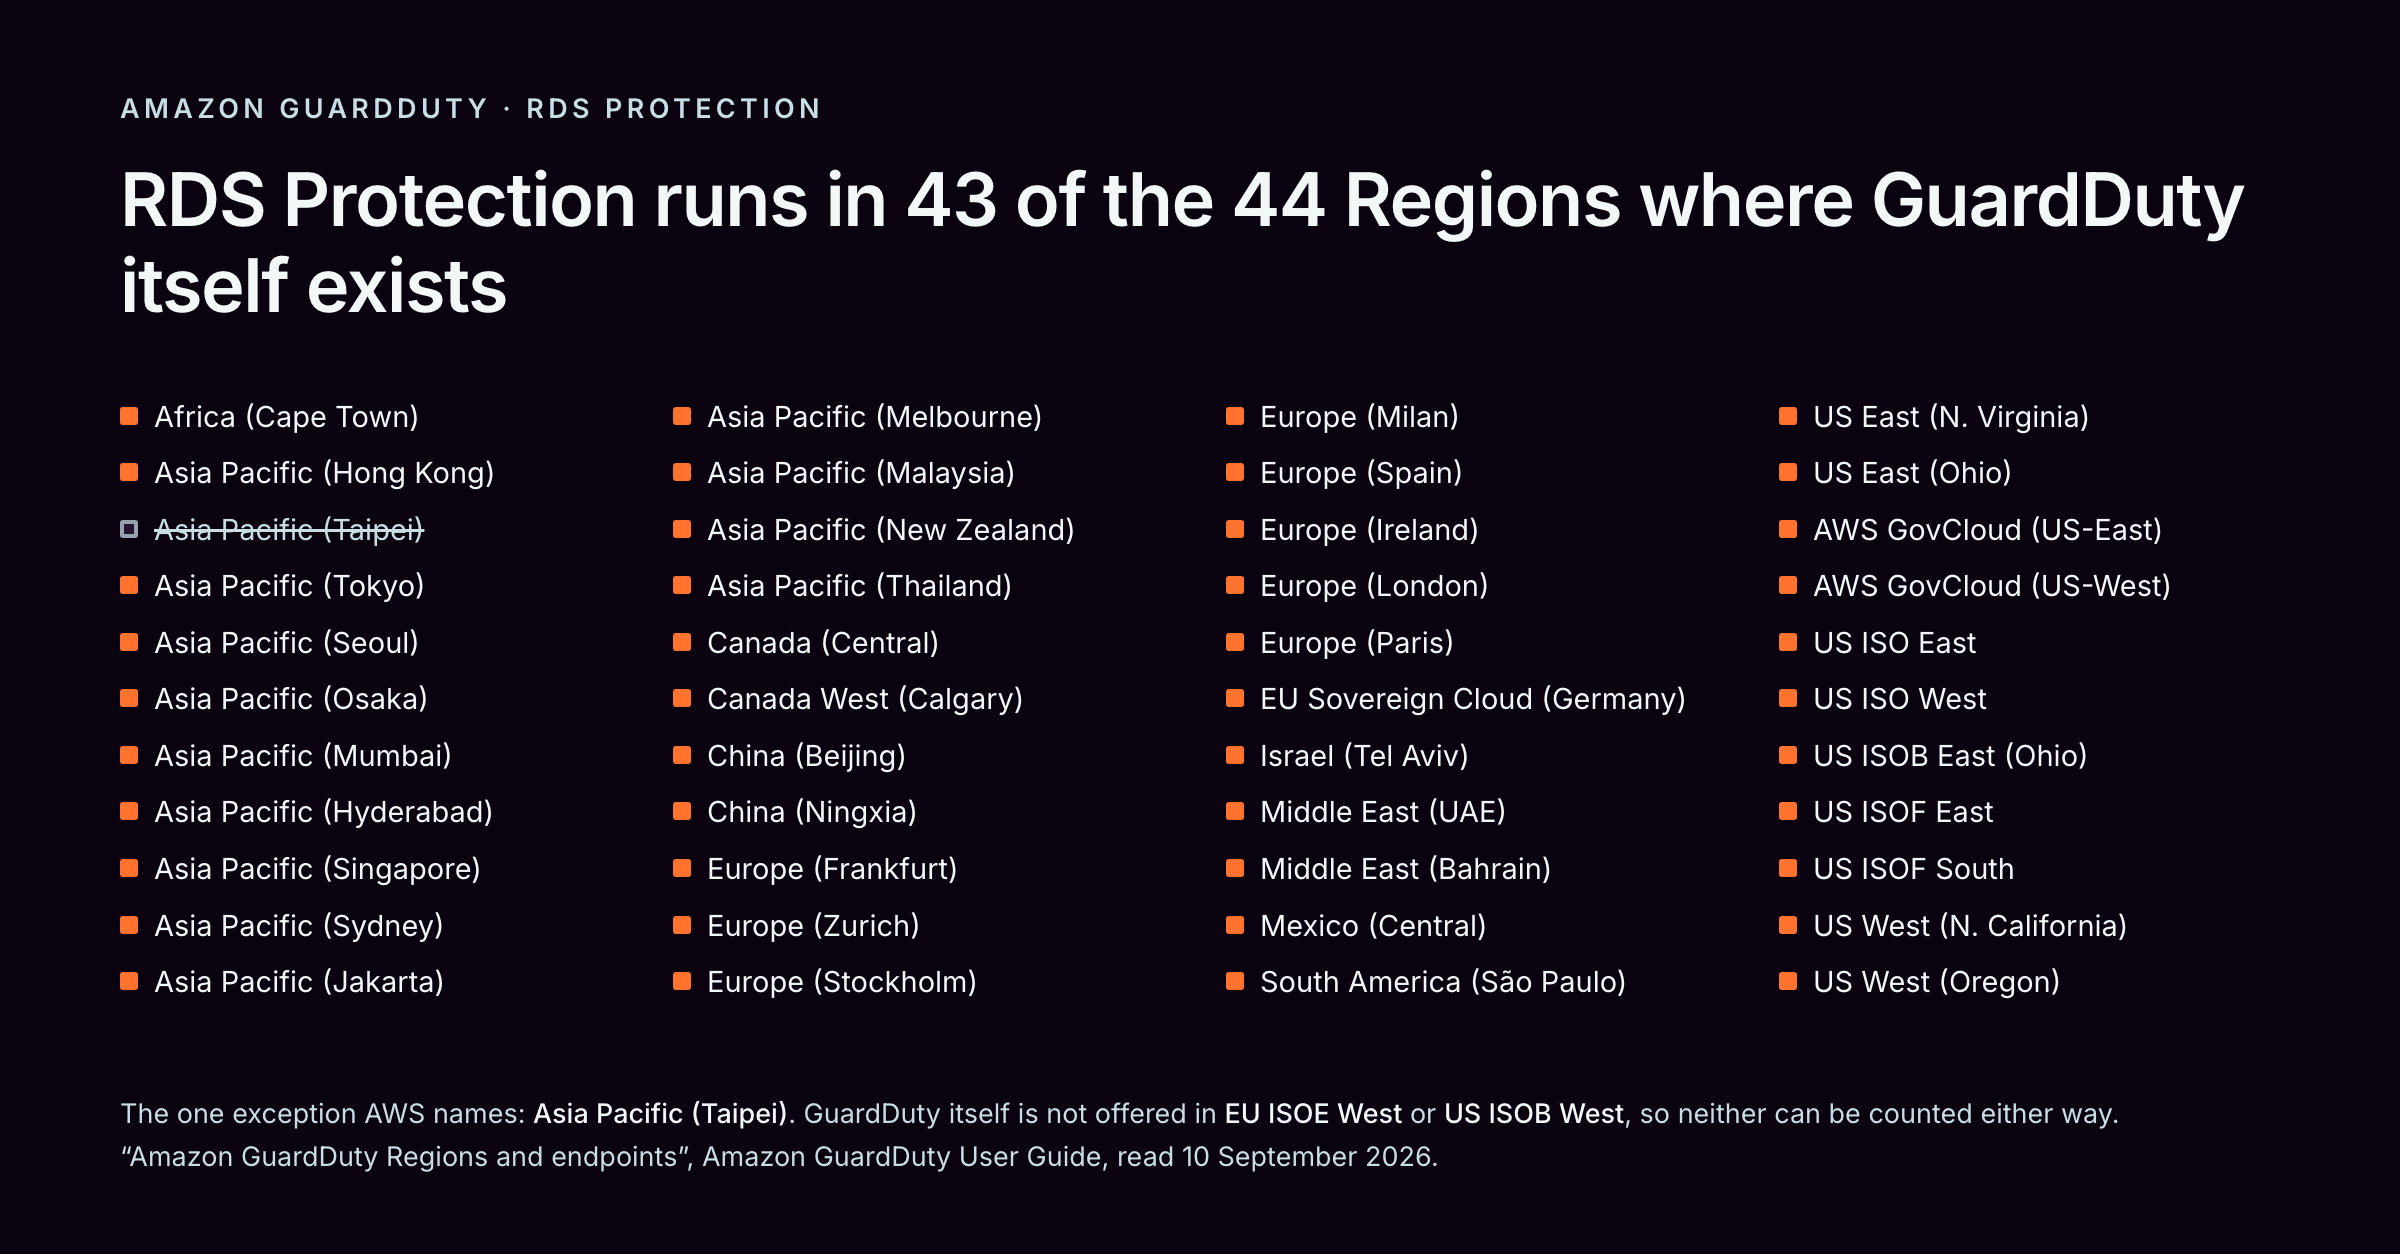
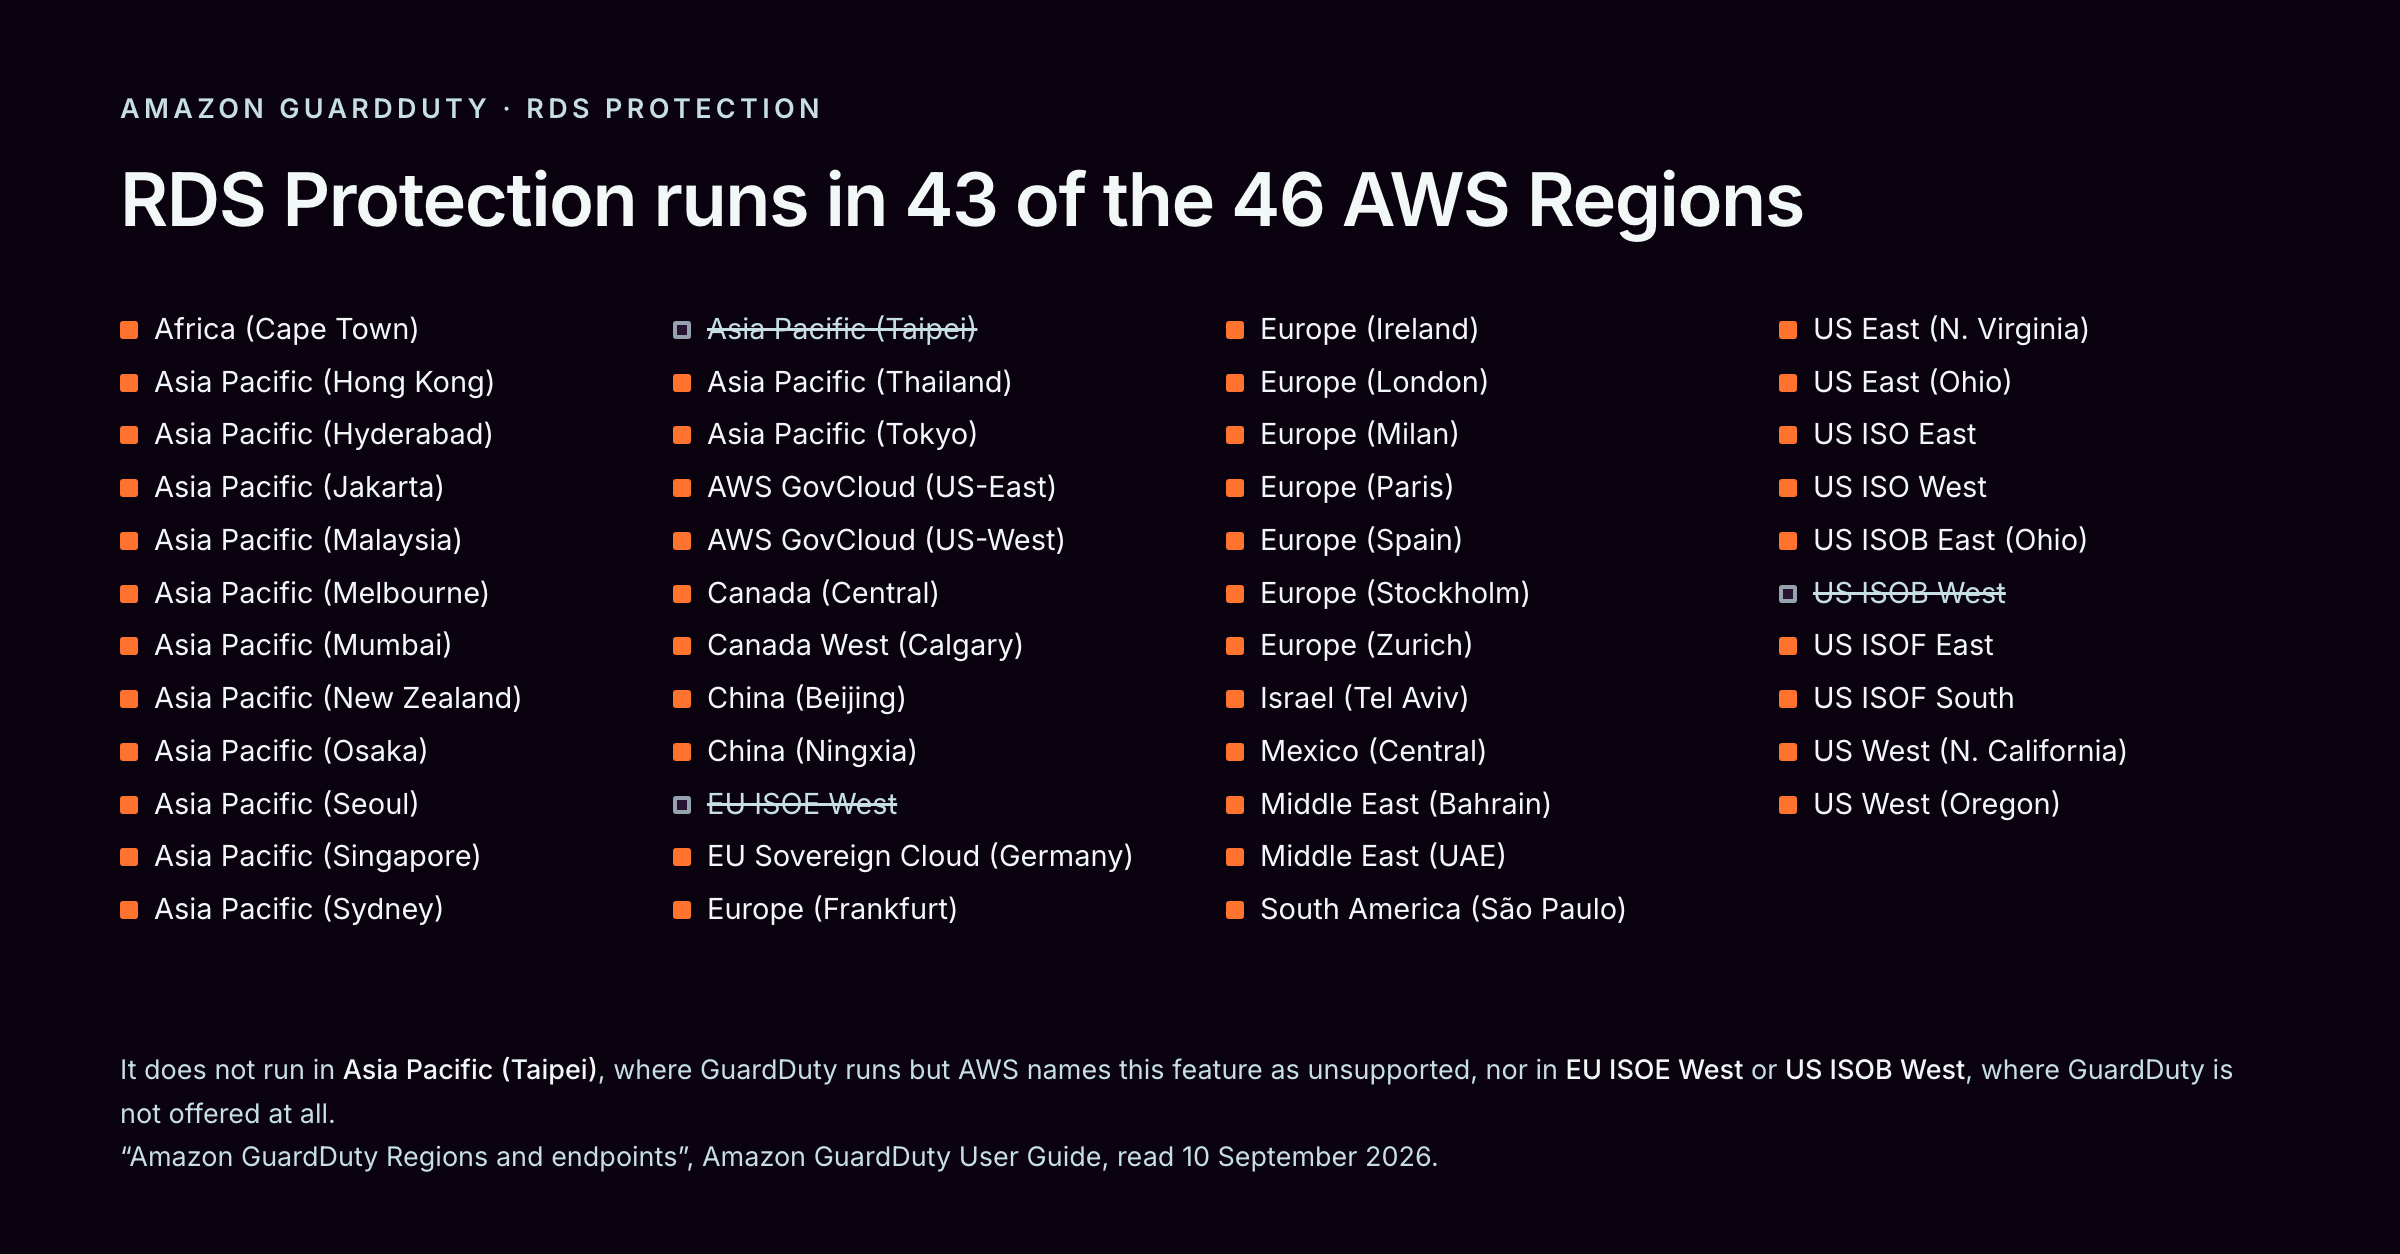
Count RDS Protection against all 46 Regions, not GuardDuty's 44
Excluding the two Regions GuardDuty does not reach hid two places the
feature does not run. All 46 are listed, three struck through, and the
footer separates the feature gap from the service gap.

diff --git a/docs/social/guardduty-rds-protection-regions.html b/docs/social/guardduty-rds-protection-regions.html
@@ -13,7 +13,7 @@ body{background:var(--bg); color:var(--cloud); font-family:Inter,-apple-system,s
   color:var(--cloud-mid); margin-bottom:16px}
 h1{font-size:37px; font-weight:600; line-height:1.16; letter-spacing:-.02em}
 ul{list-style:none; margin-top:30px; columns:4; column-gap:26px}
-li{font-size:14.5px; line-height:1.95; padding-left:17px; position:relative;
+li{font-size:14.5px; line-height:1.82; padding-left:17px; position:relative;
   break-inside:avoid; white-space:nowrap}
 li::before{content:""; position:absolute; left:0; top:9px; width:9px; height:9px; border-radius:1.5px}
 li.in::before{background:var(--orange)}
@@ -23,52 +23,54 @@ li.out::before{background:var(--deep); box-shadow:inset 0 0 0 2px rgba(199,222,2
 .src b{color:var(--cloud); font-weight:500}
 </style></head><body>
   <div class="eyebrow">Amazon GuardDuty &middot; RDS Protection</div>
-  <h1>RDS Protection runs in 43 of the 44 Regions where GuardDuty itself exists</h1>
+  <h1>RDS Protection runs in 43 of the 46 AWS Regions</h1>
   <ul>
     <li class="in">Africa (Cape Town)</li>
     <li class="in">Asia Pacific (Hong Kong)</li>
-    <li class="out">Asia Pacific (Taipei)</li>
-    <li class="in">Asia Pacific (Tokyo)</li>
-    <li class="in">Asia Pacific (Seoul)</li>
-    <li class="in">Asia Pacific (Osaka)</li>
-    <li class="in">Asia Pacific (Mumbai)</li>
     <li class="in">Asia Pacific (Hyderabad)</li>
+    <li class="in">Asia Pacific (Jakarta)</li>
+    <li class="in">Asia Pacific (Malaysia)</li>
+    <li class="in">Asia Pacific (Melbourne)</li>
+    <li class="in">Asia Pacific (Mumbai)</li>
+    <li class="in">Asia Pacific (New Zealand)</li>
+    <li class="in">Asia Pacific (Osaka)</li>
+    <li class="in">Asia Pacific (Seoul)</li>
     <li class="in">Asia Pacific (Singapore)</li>
     <li class="in">Asia Pacific (Sydney)</li>
-    <li class="in">Asia Pacific (Jakarta)</li>
-    <li class="in">Asia Pacific (Melbourne)</li>
-    <li class="in">Asia Pacific (Malaysia)</li>
-    <li class="in">Asia Pacific (New Zealand)</li>
+    <li class="out">Asia Pacific (Taipei)</li>
     <li class="in">Asia Pacific (Thailand)</li>
+    <li class="in">Asia Pacific (Tokyo)</li>
+    <li class="in">AWS GovCloud (US-East)</li>
+    <li class="in">AWS GovCloud (US-West)</li>
     <li class="in">Canada (Central)</li>
     <li class="in">Canada West (Calgary)</li>
     <li class="in">China (Beijing)</li>
     <li class="in">China (Ningxia)</li>
+    <li class="out">EU ISOE West</li>
+    <li class="in">EU Sovereign Cloud (Germany)</li>
     <li class="in">Europe (Frankfurt)</li>
-    <li class="in">Europe (Zurich)</li>
-    <li class="in">Europe (Stockholm)</li>
-    <li class="in">Europe (Milan)</li>
-    <li class="in">Europe (Spain)</li>
     <li class="in">Europe (Ireland)</li>
     <li class="in">Europe (London)</li>
+    <li class="in">Europe (Milan)</li>
     <li class="in">Europe (Paris)</li>
-    <li class="in">EU Sovereign Cloud (Germany)</li>
+    <li class="in">Europe (Spain)</li>
+    <li class="in">Europe (Stockholm)</li>
+    <li class="in">Europe (Zurich)</li>
     <li class="in">Israel (Tel Aviv)</li>
-    <li class="in">Middle East (UAE)</li>
-    <li class="in">Middle East (Bahrain)</li>
     <li class="in">Mexico (Central)</li>
+    <li class="in">Middle East (Bahrain)</li>
+    <li class="in">Middle East (UAE)</li>
     <li class="in">South America (São Paulo)</li>
     <li class="in">US East (N. Virginia)</li>
     <li class="in">US East (Ohio)</li>
-    <li class="in">AWS GovCloud (US-East)</li>
-    <li class="in">AWS GovCloud (US-West)</li>
     <li class="in">US ISO East</li>
     <li class="in">US ISO West</li>
     <li class="in">US ISOB East (Ohio)</li>
+    <li class="out">US ISOB West</li>
     <li class="in">US ISOF East</li>
     <li class="in">US ISOF South</li>
     <li class="in">US West (N. California)</li>
     <li class="in">US West (Oregon)</li>
   </ul>
-  <div class="src">The one exception AWS names: <b>Asia Pacific (Taipei)</b>. GuardDuty itself is not offered in <b>EU ISOE West</b> or <b>US ISOB West</b>, so neither can be counted either way.<br>&ldquo;Amazon GuardDuty Regions and endpoints&rdquo;, Amazon GuardDuty User Guide, read 10&nbsp;September&nbsp;2026.</div>
+  <div class="src">It does not run in <b>Asia Pacific (Taipei)</b>, where GuardDuty runs but AWS names this feature as unsupported, nor in <b>EU ISOE West</b> or <b>US ISOB West</b>, where GuardDuty is not offered at all.<br>&ldquo;Amazon GuardDuty Regions and endpoints&rdquo;, Amazon GuardDuty User Guide, read 10&nbsp;September&nbsp;2026.</div>
 </body></html>
